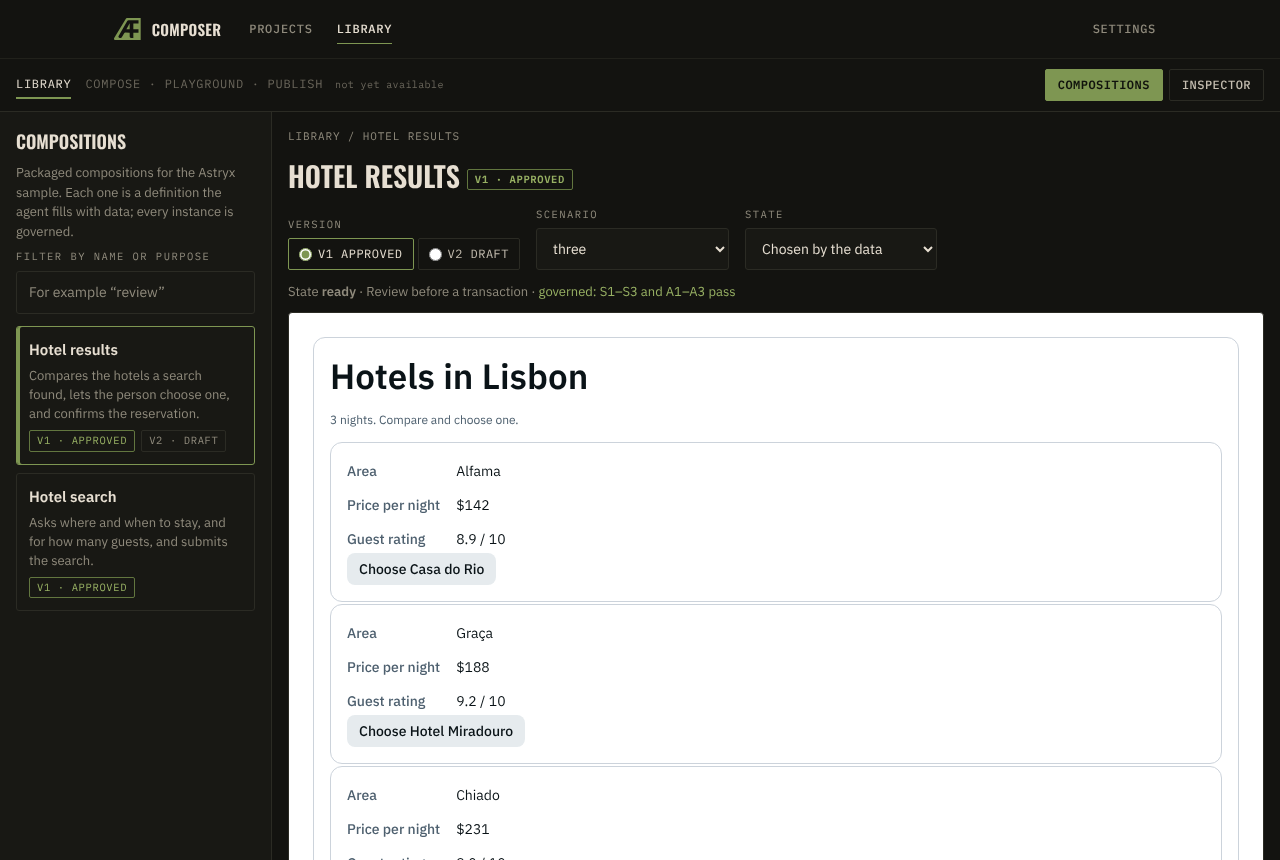
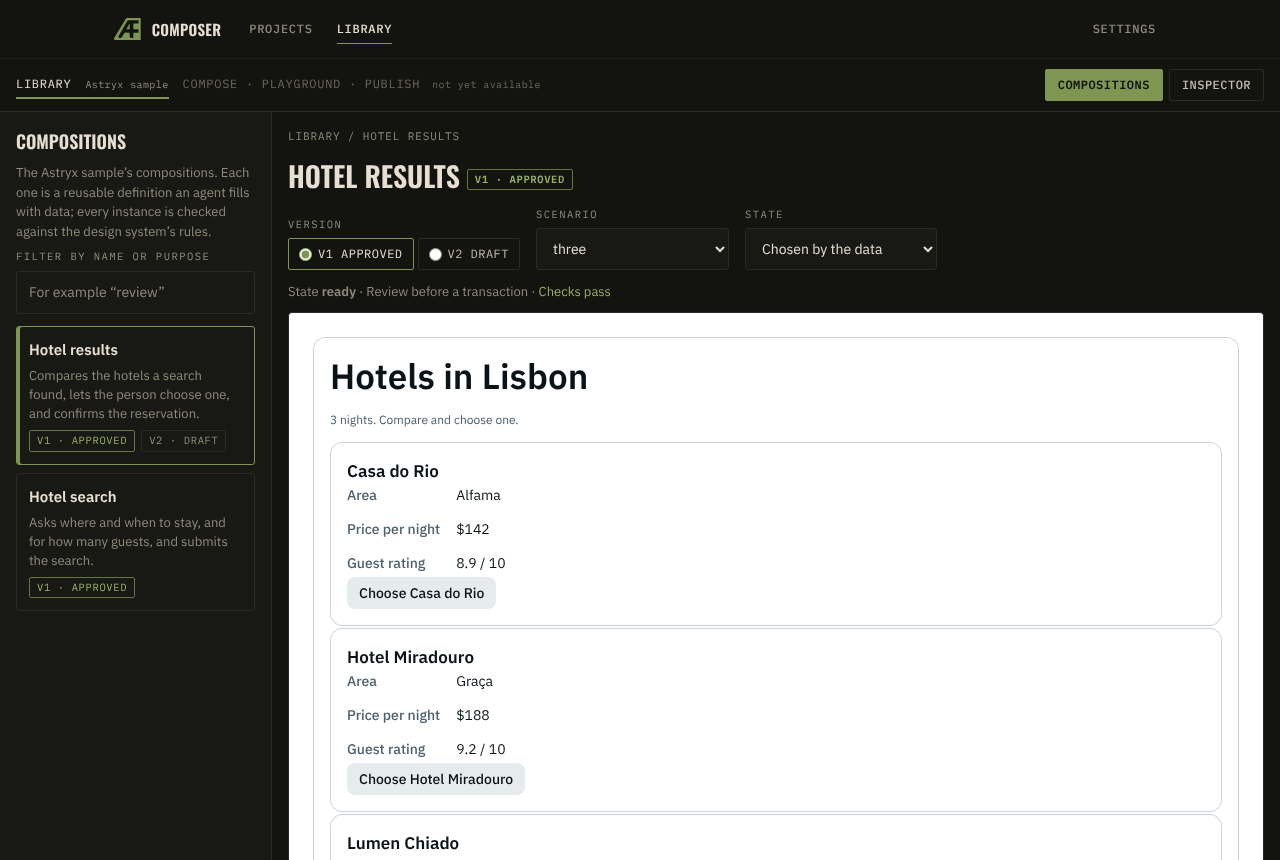
Library screenshots after the review corrections, at 1440, 1280, 1024 and 390 px
Claude-Session: https://claude.ai/code/session_013DBMAbt84WFkAWu1BzsXNF

diff --git a/docs/repositioning/M1-WORKSPACE.md b/docs/repositioning/M1-WORKSPACE.md
@@ -35,7 +35,7 @@ Things to try:
 5. **Hotel search.** Type a loyalty number and press **Search hotels**. A note pinned to the bottom of the canvas says **Preview only, not run**, with what the action would send and the loyalty number as `[sensitive]`.
 6. **Narrow the window below 900 px.** The canvas comes first, and the two panels become modal drawers: Tab stays inside, the page behind is unavailable, Escape closes and returns focus.
 
-Screenshots at 1280, 1440 and 390 px are in [m1/screenshots/](m1/screenshots/).
+Screenshots at 1440, 1280, 1024 and 390 px, after the review corrections, are in [m1/screenshots/](m1/screenshots/).
 
 ## Slice A: experimental storage
 
